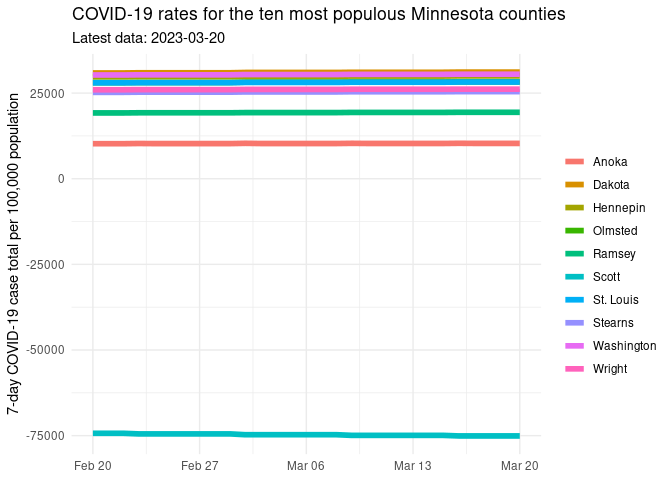
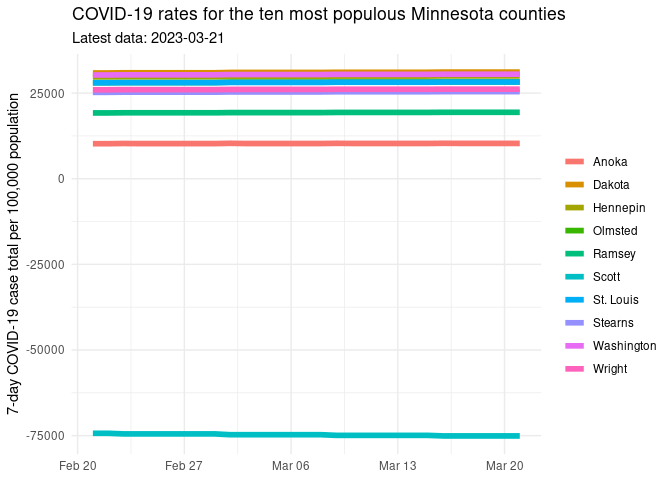
Updated report

diff --git a/README.md b/README.md
@@ -1,7 +1,7 @@
 Minnesota COVID Report
 ================
 
-Report last run: 2023-03-21 03:12:44
+Report last run: 2023-03-22 03:12:16
 
 ## Introduction
 
@@ -111,22 +111,22 @@ rate_data %>%
 | county             | state          |     pop | covid_rate |
 |:-------------------|:---------------|--------:|-----------:|
 | Delta              | Texas          |    5331 |     147027 |
-| Nome Census Area   | Alaska         |   10004 |      68223 |
+| Nome Census Area   | Alaska         |   10004 |      68323 |
 | Chattahoochee      | Georgia        |   10907 |      58174 |
 | Rolette            | North Dakota   |   14176 |      54423 |
 | Miami-Dade         | Florida        | 2716940 |      52763 |
-| Bethel Census Area | Alaska         |   18386 |      50990 |
+| Bethel Census Area | Alaska         |   18386 |      51343 |
 | Imperial           | California     |  181215 |      46361 |
 | Scott              | Tennessee      |   22068 |      45614 |
-| McKinley           | New Mexico     |   71367 |      44546 |
+| McKinley           | New Mexico     |   71367 |      44564 |
 | Greenup            | Kentucky       |   35098 |      43877 |
 | Burleigh           | North Dakota   |   95626 |      42409 |
 | Stark              | North Dakota   |   31489 |      41846 |
 | Craighead          | Arkansas       |  110332 |      40161 |
 | Floyd              | Kentucky       |   35589 |      40029 |
 | Whitley            | Kentucky       |   36264 |      39805 |
-| Lexington          | South Carolina |  298750 |      39581 |
+| Lexington          | South Carolina |  298750 |      39633 |
 | Providence         | Rhode Island   |  638931 |      39523 |
-| Nassau             | New York       | 1356924 |      39350 |
-| Denali Borough     | Alaska         |    2097 |      39103 |
+| Nassau             | New York       | 1356924 |      39354 |
+| Denali Borough     | Alaska         |    2097 |      39151 |
 | Pike               | Kentucky       |   57876 |      38892 |
